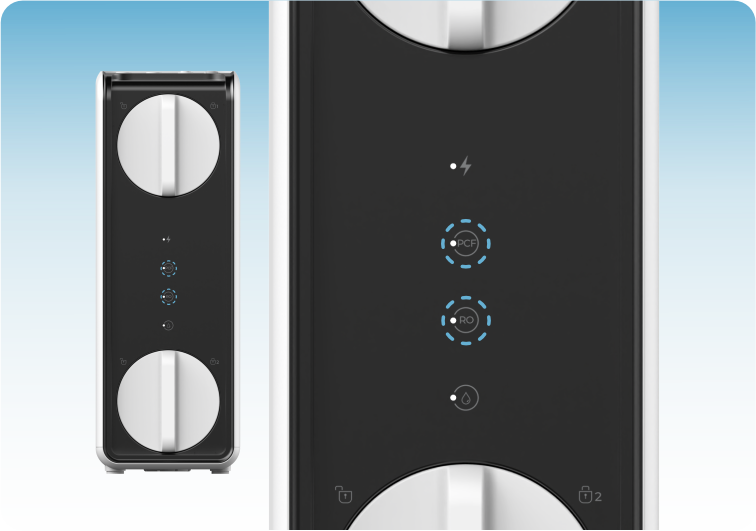
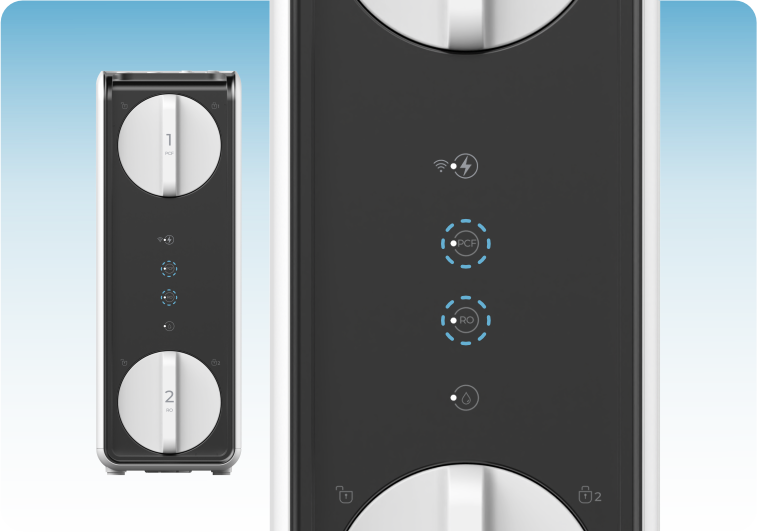
更新文案与图片

diff --git a/src/pages/home/index.tsx b/src/pages/home/index.tsx
@@ -81,11 +81,14 @@ export function Home() {
     pcfColor = pcfFiltertime>5?'black':'red'
   }
   else if (pid === 'ptrtzvzn3e7u8ijm') { 
-      roColor = roFiltertime>10?'black':'red'
-      pcfColor = pcfFiltertime>10?'black':'red'
+      roColor = roFiltertime>5?'black':'red'
+      pcfColor = pcfFiltertime>5?'black':'red'
   }
 
-  // const washState = dpState['wash_state'];
+  // 冲洗开关
+  const wash = dpState['wash'];
+  // 冲洗状态
+  const washState = dpState['wash_state'];
   const modelStr = dpState['model'];
   const flushTimer = dpState['flush_timer'];
 
@@ -115,14 +118,60 @@ export function Home() {
     var title = ""
     var content = ""
     if (fault !== 0) {
-      
-      if (binaryFault[0]==='1') {
-        title = "Error Code : E8"
-        content = "Faucet and water purifier communication failure. Please check the connection."
-      } else if (binaryFault[1]==='1') {
-        title = "Error Code : E15"
-        content = "System overrun protection activated after 2 hours of continuous operation."
+      if (pid === 'dknfai4pqtl1k2hf' || pid === 'kaaz0cxdgvroa6qp' || pid === 'wcssrdbcufckhbzk') { 
+        if (binaryFault[0]==='1') {
+          title = "Error Code : E8"
+          content = "Faucet and water purifier communication failure. Please check the connection."
+        } else if (binaryFault[1]==='1') {
+          title = "Error Code : E15"
+          content = "System overrun protection activated after 2 hours of continuous operation."
+        }
       }
+      else if (pid === 'ptrtzvzn3e7u8ijm') { 
+        console.log(binaryFault)
+        if (binaryFault[0]==='1') {
+          title = "Error Code : E1"
+          content = ""
+        } else if (binaryFault[1]==='1') {
+          title = "Error Code : E2"
+          content = ""
+        } else if (binaryFault[2]==='1') {
+          title = "Error Code : E3"
+          content = ""
+        } else if (binaryFault[3]==='1') {
+          title = "Error Code : E4"
+          content = ""
+        } else if (binaryFault[4]==='1') {
+          title = "Error Code : E6"
+          content = ""
+        } else if (binaryFault[5]==='1') {
+          title = "Error Code : E7"
+          content = ""
+        } else if (binaryFault[6]==='1') {
+          title = "Error Code : E8"
+          content = ""
+        } else if (binaryFault[7]==='1') {
+          title = "Error Code : E9"
+          content = ""
+        } else if (binaryFault[8]==='1') {
+          title = "Error Code : F0"
+          content = ""
+        } else if (binaryFault[9]==='1') {
+          title = "Error Code : F1"
+          content = ""
+        } else if (binaryFault[10]==='1') {
+          title = "Error Code : F2"
+          content = ""
+        } else if (binaryFault[11]==='1') {
+          title = "Error Code : F3"
+          content = ""
+        } else if (binaryFault[12]==='1') {
+          title = "Error Code : F4"
+          content = ""
+        }
+        
+      }
+      
       showModal({title: title, content: content, showCancel: false, confirmText: Strings.getLang('confirm')})
     }
   }, [dpState['fault']]);
@@ -173,8 +222,8 @@ export function Home() {
           const lastPopDate = new Date(lastPopTime);
           const diff = now.getTime() - lastPopDate.getTime();
           // 大于15天提示并更新日期
-          // if (diff > 1000*3600*24*15) {
-          if (diff > 1000*3) {
+          if (diff > 1000*3600*24*15) {
+          // if (diff > 1000*3) {
             updatePopFilterDate()
             setTimeout(() => {
               popupFlushMode.open({
@@ -525,6 +574,26 @@ export function Home() {
               </Svg>
             </View>
           </View>
+
+          {/* F;FH */}
+          {(Model==='FH')&&<>
+          <View className={styles.sectionItem} id='手动冲洗'>
+            <View className={styles.infoItem}>
+              <View className={styles.sectionItemText}>Clean Filter</View>
+            </View>
+            {!washState&&!wash&&
+            <Button
+            onClick={() => {
+              actions['wash'].set(true)
+            }}
+            >{Strings.getLang('flush')}</Button>
+            }
+            {!(!washState&&!wash)&&
+            <View>flushing</View>
+            }
+          </View>
+          
+          <Divider/></>}
 
           {/* F;FH */}
           {(Model==='F'||Model==='FH')&&<>

diff --git a/src/i18n/strings.ts b/src/i18n/strings.ts
@@ -11,6 +11,7 @@ export default {
     recycledFlushing:'Recycled Flushing',
     scheduledFlushing:'Scheduled Flushing / 24h',
     consumptionReport:'Consumption Report',
+    flush:'Flush Now',
   },
   zh: {
     // waterQuality:'净水水质',

diff --git a/src/pages/home/index.module.less b/src/pages/home/index.module.less
@@ -75,6 +75,15 @@
   color: black;
 }
 
+.flushBtn {
+  position: relative;
+  display: flex;
+  width: 90%;
+  margin-top: 8px;
+  margin-bottom: 8px;
+  text-align: center;
+}
+
 .infoItem {
   position: relative;
   display: flex;
